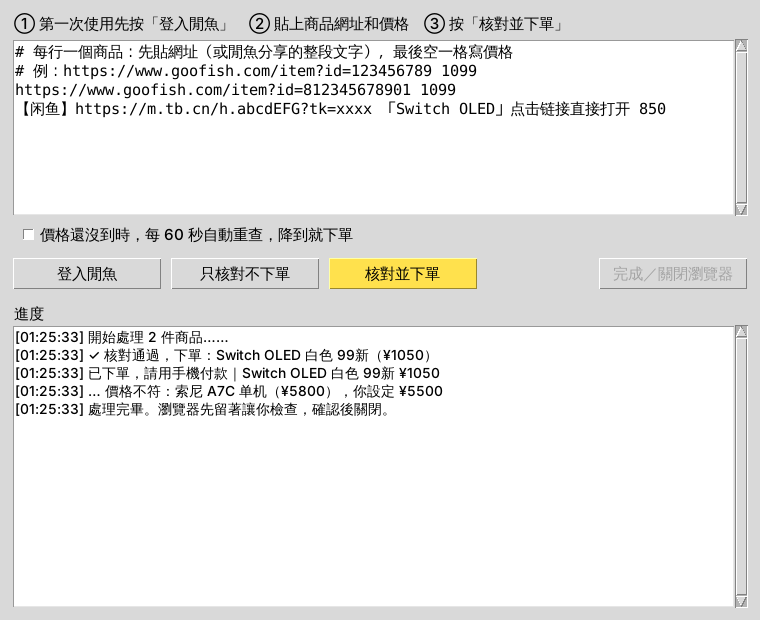
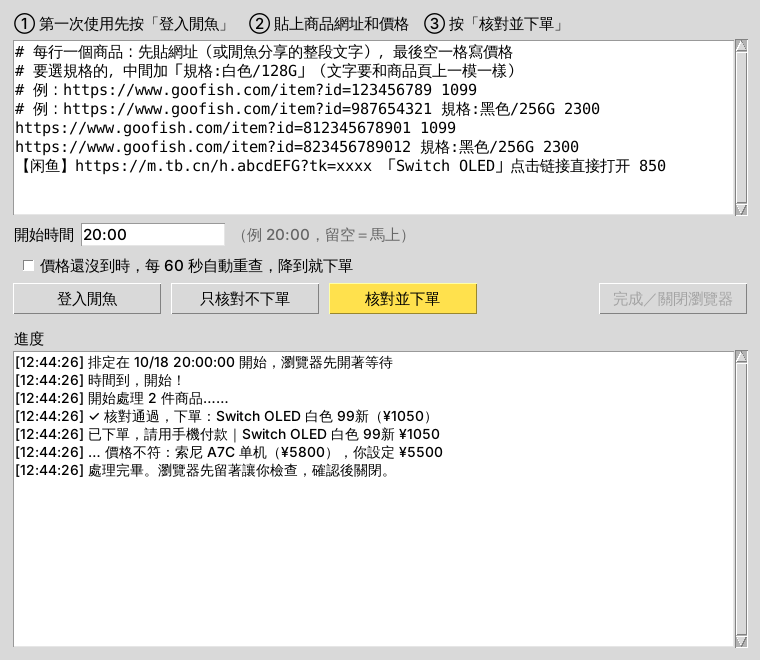
支援自動選規格與定時開始，加快下單速度
- 清單每行可加「規格:黑色/256G」，自動點選規格再下單
- 新增開始時間（視窗版欄位、指令列 --at），時間到才開始
- 改用輪詢偵測頁面狀態，取代固定等待，下單時間從十幾秒縮短到幾秒

Claude-Session: https://claude.ai/code/session_01U77g3L4W4Yf5E8mQ8bZxYe

diff --git a/xianyu-order/xianyu_order.py b/xianyu-order/xianyu_order.py
@@ -52,6 +52,8 @@ class Config:
     browser_channel: str = "chrome"
     max_shipping: float = 0  # 允許總額比你給的價格多出多少（運費），0 = 只接受包郵
     buy_button_texts: list[str] = field(default_factory=lambda: ["立即购买"])
+    # 選完規格後，規格視窗裡的確認按鈕
+    spec_confirm_texts: list[str] = field(default_factory=lambda: ["确定", "确认", "立即购买", "下一步"])
     submit_button_texts: list[str] = field(default_factory=lambda: ["提交订单", "确认购买", "确认下单"])
     notify: dict = field(default_factory=dict)
 
@@ -66,19 +68,46 @@ class Config:
 class Order:
     url: str
     price: float
+    specs: list[str] = field(default_factory=list)  # 要選的規格，例如 ["白色", "128G"]
     done: bool = False
 
 
+SPEC_RE = re.compile(r"[規规]格\s*[:：=]\s*(\S+)")
+
+
 def parse_order_line(line: str) -> Order | None:
-    """一行一筆：網址（或閒魚 App 分享出來的整段文字）＋ 價格，價格寫在最後。"""
+    """一行一筆：網址（或閒魚 App 分享出來的整段文字）＋ 價格，價格寫在最後。
+    需要選規格時，在行內加上「規格:白色/128G」。"""
     line = line.strip()
     if not line or line.startswith("#"):
         return None
+    specs: list[str] = []
+    if m := SPEC_RE.search(line):
+        specs = [s for s in re.split(r"[/,，、]", m.group(1)) if s]
+        line = (line[: m.start()] + " " + line[m.end():]).strip()
     url = re.search(r"https?://[^\s，,]+", line)
     price = re.search(r"(\d+(?:\.\d+)?)\s*$", line)
     if not url or not price:
         raise ValueError(f"看不懂這一行（需要網址和價格）：{line}")
-    return Order(url.group(0), float(price.group(1)))
+    return Order(url.group(0), float(price.group(1)), specs)
+
+
+def parse_start_time(text: str, now: dt.datetime | None = None) -> dt.datetime | None:
+    """「20:00」「20:00:30」「10/20 20:00」「2026-10-20 20:00」。只寫時間且已過，就當作明天。"""
+    text = text.strip().replace("：", ":")
+    if not text:
+        return None
+    now = now or dt.datetime.now()
+    m = re.fullmatch(r"(?:(?:(\d{4})[-/])?(\d{1,2})[-/](\d{1,2})\s+)?(\d{1,2}):(\d{2})(?::(\d{2}))?", text)
+    if not m:
+        raise ValueError(f"看不懂時間「{text}」，請寫成 20:00 或 10/20 20:00")
+    year, month, day, hh, mm, ss = m.groups()
+    t = now.replace(hour=int(hh), minute=int(mm), second=int(ss or 0), microsecond=0)
+    if month:
+        t = t.replace(year=int(year or now.year), month=int(month), day=int(day))
+    elif t <= now:
+        t += dt.timedelta(days=1)
+    return t
 
 
 # ---------------------------------------------------------------- 解析頁面
@@ -167,16 +196,50 @@ async def wait_until_unblocked(cfg: Config, page: Page) -> None:
     log("已解除，繼續")
 
 
-async def click_first(page: Page, texts: list[str], timeout: int = 8000) -> bool:
-    for t in texts:
-        loc = page.get_by_text(t, exact=True).first
-        try:
-            await loc.wait_for(state="visible", timeout=timeout)
-            await loc.click()
+async def body_text(page: Page) -> str:
+    try:
+        return await page.inner_text("body", timeout=2000)
+    except Exception:
+        return ""
+
+
+async def poll(check, timeout: float, interval: float = 0.15) -> bool:
+    """每隔一小段時間檢查一次，條件成立就馬上回傳，不做固定等待。"""
+    loop = asyncio.get_running_loop()
+    end = loop.time() + timeout
+    while loop.time() < end:
+        if await check():
             return True
-        except Exception:
-            continue
+        await asyncio.sleep(interval)
     return False
+
+
+async def click_visible(page: Page, texts: list[str], timeout: int, last: bool = False, exact: bool = True) -> bool:
+    """點畫面上看得到、文字相符的元素。last=True 點最後一個（彈出視窗通常在頁面最後）。"""
+    if exact:
+        loc = page.get_by_text(re.compile(r"^\s*(" + "|".join(map(re.escape, texts)) + r")\s*$"))
+    else:
+        loc = page.get_by_text(texts[0])
+    loc = loc.locator("visible=true")
+    target = loc.last if last else loc.first
+    try:
+        await target.wait_for(state="visible", timeout=timeout)
+        await target.click()
+        return True
+    except Exception:
+        return False
+
+
+async def select_specs(page: Page, specs: list[str], timeout: int) -> list[str]:
+    """依序點選規格，回傳沒找到的規格。第一個規格等 timeout，之後的視窗已經出現，只等一下。"""
+    missing = []
+    for i, s in enumerate(specs):
+        wait = timeout if i == 0 else min(timeout, 1500)
+        if await click_visible(page, [s], wait, last=True) or await click_visible(page, [s], 200, last=True, exact=False):
+            await page.wait_for_timeout(150)
+        else:
+            missing.append(s)
+    return missing
 
 
 async def read_item(cfg: Config, page: Page, url: str) -> dict:
@@ -193,6 +256,13 @@ async def read_item(cfg: Config, page: Page, url: str) -> dict:
         if info["price"] is not None:
             api.update(info)
 
+    async def loaded() -> bool:
+        if api.get("price") is not None:
+            return True
+        text = await body_text(page)
+        markers = cfg.buy_button_texts + GONE_MARKERS + BLOCK_MARKERS
+        return any(m in text for m in markers)
+
     page.on("response", on_response)
     try:
         await page.goto(url, wait_until="domcontentloaded", timeout=45000)
@@ -201,15 +271,12 @@ async def read_item(cfg: Config, page: Page, url: str) -> dict:
             # 分享短網址會轉到手機版頁面，改開電腦版商品頁
             api.clear()
             await page.goto(ITEM_URL.format(id=m.group(1)), wait_until="domcontentloaded", timeout=45000)
-        try:
-            await page.wait_for_load_state("networkidle", timeout=15000)
-        except Exception:
-            pass
-        await page.wait_for_timeout(1000)
+        await poll(loaded, 12)
+        await page.wait_for_timeout(300)
         if await is_blocked(page):
             await wait_until_unblocked(cfg, page)
             return await read_item(cfg, page, url)
-        text = await page.inner_text("body")
+        text = await body_text(page)
     finally:
         page.remove_listener("response", on_response)
 
@@ -224,30 +291,49 @@ async def read_item(cfg: Config, page: Page, url: str) -> dict:
 
 
 async def place_order(cfg: Config, ctx: BrowserContext, page: Page, order: Order) -> str:
-    """在已打開的商品頁按購買，核對確認頁總額後提交訂單。回傳結果說明。"""
+    """在已打開的商品頁按購買（需要時選規格），核對確認頁總額後提交訂單。回傳結果說明。"""
     pages_before = set(ctx.pages)
-    if not await click_first(page, cfg.buy_button_texts):
-        return "找不到「立即购买」按鈕（可能需要選規格，或賣家沒開放直接購買）"
-    await page.wait_for_timeout(2500)
+    url_before = page.url
+
+    async def navigated() -> bool:
+        return page.url != url_before or any(p not in pages_before for p in ctx.pages)
+
+    # 規格可能直接列在商品頁上（先點），也可能按「立即购买」後才跳出視窗（之後再點）
+    missing = await select_specs(page, order.specs, 300) if order.specs else []
+    if not await click_visible(page, cfg.buy_button_texts, 8000):
+        return "找不到「立即购买」按鈕（可能賣家沒開放直接購買）"
+
+    if order.specs and not await poll(navigated, 1.5):
+        if missing:
+            missing = await select_specs(page, missing, 5000)
+        if missing:
+            return f"找不到規格「{'、'.join(missing)}」，請確認文字和商品頁上的一模一樣"
+        await click_visible(page, cfg.spec_confirm_texts, 3000, last=True)
+
+    if not await poll(navigated, 10):
+        hint = "" if order.specs else "（如果商品要選規格，請在清單加上「規格:xxx」）"
+        return f"按了購買但沒有進到訂單確認頁，沒有提交{hint}"
     new_pages = [p for p in ctx.pages if p not in pages_before]
     confirm = new_pages[-1] if new_pages else page
     await confirm.bring_to_front()
-    try:
-        await confirm.wait_for_load_state("networkidle", timeout=15000)
-    except Exception:
-        pass
+
+    async def total_ready() -> bool:
+        return total_from_text(await body_text(confirm)) is not None or await is_blocked(confirm)
+
+    await poll(total_ready, 12)
     if await is_blocked(confirm):
         await wait_until_unblocked(cfg, confirm)
+        await poll(total_ready, 12)
 
-    total = total_from_text(await confirm.inner_text("body"))
+    total = total_from_text(await body_text(confirm))
     limit = order.price + cfg.max_shipping
     if total is None:
-        return "確認頁讀不到應付總額，為了安全沒有提交，請在瀏覽器手動確認"
+        return "訂單確認頁讀不到應付總額，為了安全沒有提交，請在瀏覽器手動確認"
     if total > limit + 0.001:
         return f"確認頁總額 ¥{total:g} 超過上限 ¥{limit:g}（含運費），沒有提交"
-    if not await click_first(confirm, cfg.submit_button_texts, timeout=10000):
+    if not await click_visible(confirm, cfg.submit_button_texts, 10000):
         return "找不到「提交订单」按鈕，請在瀏覽器手動完成"
-    await confirm.wait_for_timeout(3000)
+    await confirm.wait_for_timeout(2000)
     return f"OK ¥{total:g}"
 
 
@@ -311,10 +397,32 @@ async def login(cfg: Config, wait_user=wait_enter) -> None:
         log("登入狀態已保存，之後不用再登入。")
 
 
+async def wait_until(start_at: dt.datetime, ctx: BrowserContext, stopped) -> None:
+    """等到指定時間。開始前 1 分鐘先打開閒魚首頁，確認登入狀態、暖機。"""
+    log(f"排定在 {start_at:%m/%d %H:%M:%S} 開始，瀏覽器先開著等待")
+    warmed = False
+    while not stopped():
+        left = (start_at - dt.datetime.now()).total_seconds()
+        if left <= 0:
+            break
+        if not warmed and left <= 60:
+            page = ctx.pages[0] if ctx.pages else await ctx.new_page()
+            await page.goto(HOME_URL, wait_until="domcontentloaded")
+            warmed = True
+        if int(left) % 300 == 0 or 0 < left <= 10:
+            log(f"還有 {int(left // 60)} 分 {int(left % 60)} 秒開始")
+        await asyncio.sleep(min(1, left))
+    else:
+        return
+    log("時間到，開始！")
+
+
 async def run(cfg: Config, orders: list[Order], check_only: bool, watch: int | None,
-              wait_user=wait_enter, stopped=lambda: False) -> None:
+              wait_user=wait_enter, stopped=lambda: False, start_at: dt.datetime | None = None) -> None:
     async with async_playwright() as p:
         ctx = await open_context(p, cfg)
+        if start_at:
+            await wait_until(start_at, ctx, stopped)
         while not stopped():
             for order in [o for o in orders if not o.done]:
                 if stopped():
@@ -347,6 +455,8 @@ def main() -> None:
     ap.add_argument("-c", "--config", default=str(BASE_DIR / "config.toml"))
     ap.add_argument("--check", action="store_true", help="只核對網址與價格，不下單")
     ap.add_argument("--watch", type=int, metavar="秒", help="價格不符的商品每隔幾秒重查，直到符合就下單")
+    ap.add_argument("--at", metavar="時間", help="到指定時間才開始，例如 20:00 或 10/20 20:00")
+    ap.add_argument("--spec", help="要選的規格，用 / 分隔，例如 白色/128G（只套用在指令列給的那一件）")
     ap.add_argument("--login", action="store_true", help="開瀏覽器登入閒魚")
     args = ap.parse_args()
 
@@ -363,15 +473,20 @@ def main() -> None:
     if args.url:
         if args.price is None:
             sys.exit("請在網址後面加上價格，例如：python xianyu_order.py https://www.goofish.com/item?id=123 1099")
-        orders.append(Order(args.url, args.price))
+        specs = [s for s in re.split(r"[/,，、]", args.spec or "") if s]
+        orders.append(Order(args.url, args.price, specs))
     if not orders:
         ap.print_help()
         sys.exit(1)
     if args.watch is not None and args.watch < 30:
         sys.exit("--watch 請不要小於 30 秒，太頻繁容易被風控")
+    try:
+        start_at = parse_start_time(args.at or "")
+    except ValueError as e:
+        sys.exit(str(e))
 
     try:
-        asyncio.run(run(cfg, orders, args.check, args.watch))
+        asyncio.run(run(cfg, orders, args.check, args.watch, start_at=start_at))
     except KeyboardInterrupt:
         log("已停止")
 

diff --git a/xianyu-order/README.md b/xianyu-order/README.md
@@ -43,9 +43,26 @@ tags: [閒魚, 自動化, playwright]
 
 不確定的話，可以先按 **「只核對不下單」** 試試，看程式抓到的價格對不對。
 
-## 想等降價再買
+## 要選規格的商品
 
-勾選「價格還沒到時，每 60 秒自動重查」再按「核對並下單」。程式會一直查，等價格降到你寫的價格就馬上下單。想停的時候按「完成／關閉瀏覽器」。
+在網址和價格中間加上 **`規格:`**，多個規格用 `/` 隔開：
+
+```
+https://www.goofish.com/item?id=812345678901 規格:黑色/256G 2300
+```
+
+- 規格文字要和商品頁上的選項**一模一樣**，包括簡體字和大小寫。最好直接從商品頁複製。
+- 程式會依序點選這些規格，再按確定，接著照常核對價格並下單。
+- 找不到某個規格時不會下單，會告訴你是哪一個找不到。
+
+## 定時下單
+
+在 **「開始時間」** 填時間，例如 `20:00`，再按「核對並下單」。
+
+- 程式會先打開瀏覽器等著，時間一到就馬上開始。等待時電腦不要睡眠，視窗不要關。
+- 可以寫 `20:00`、`20:00:30`（精確到秒），或 `10/20 20:00`（指定日期）。
+- 只寫時間而且今天已經過了，就會排在明天。按下按鈕時會跳出視窗，讓你確認實際的開始時間。
+- 可以和「每 60 秒自動重查」一起用：時間到才開始，價格還沒到就繼續重查。
 
 ## 常見問題
 
@@ -56,7 +73,7 @@ tags: [閒魚, 自動化, playwright]
 程式會暫停。你在瀏覽器裡手動滑完，它會自動繼續。
 
 **為什麼沒有下單？**
-看「進度」裡的說明。常見原因有：需要選顏色或規格、賣家沒開放直接購買、價格不符、已售出。這些情況請在瀏覽器裡自己完成。
+看「進度」裡的說明。常見原因有：要選規格但沒寫、規格文字和頁面上不一樣、賣家沒開放直接購買、價格不符、已售出。
 
 **注意**
 - 執行時跳出來的瀏覽器不要關，可以縮小。
@@ -71,8 +88,9 @@ tags: [閒魚, 自動化, playwright]
 ```
 python xianyu_order.py --login
 python xianyu_order.py <網址> <價格>
-python xianyu_order.py -f orders.txt [--check] [--watch 60]
+python xianyu_order.py -f orders.txt [--check] [--watch 60] [--at 20:00]
+python xianyu_order.py <網址> <價格> --spec 黑色/256G --at 20:00
 ```
 
-如果閒魚改版，導致按鈕文字不同，可以在 `config.toml` 裡用 `buy_button_texts`、`submit_button_texts` 調整，預設值寫在 `xianyu_order.py` 的 `Config` 裡。
+如果閒魚改版，導致按鈕文字不同，可以在 `config.toml` 裡用 `buy_button_texts`、`spec_confirm_texts`、`submit_button_texts` 調整，預設值寫在 `xianyu_order.py` 的 `Config` 裡。
 </details>
